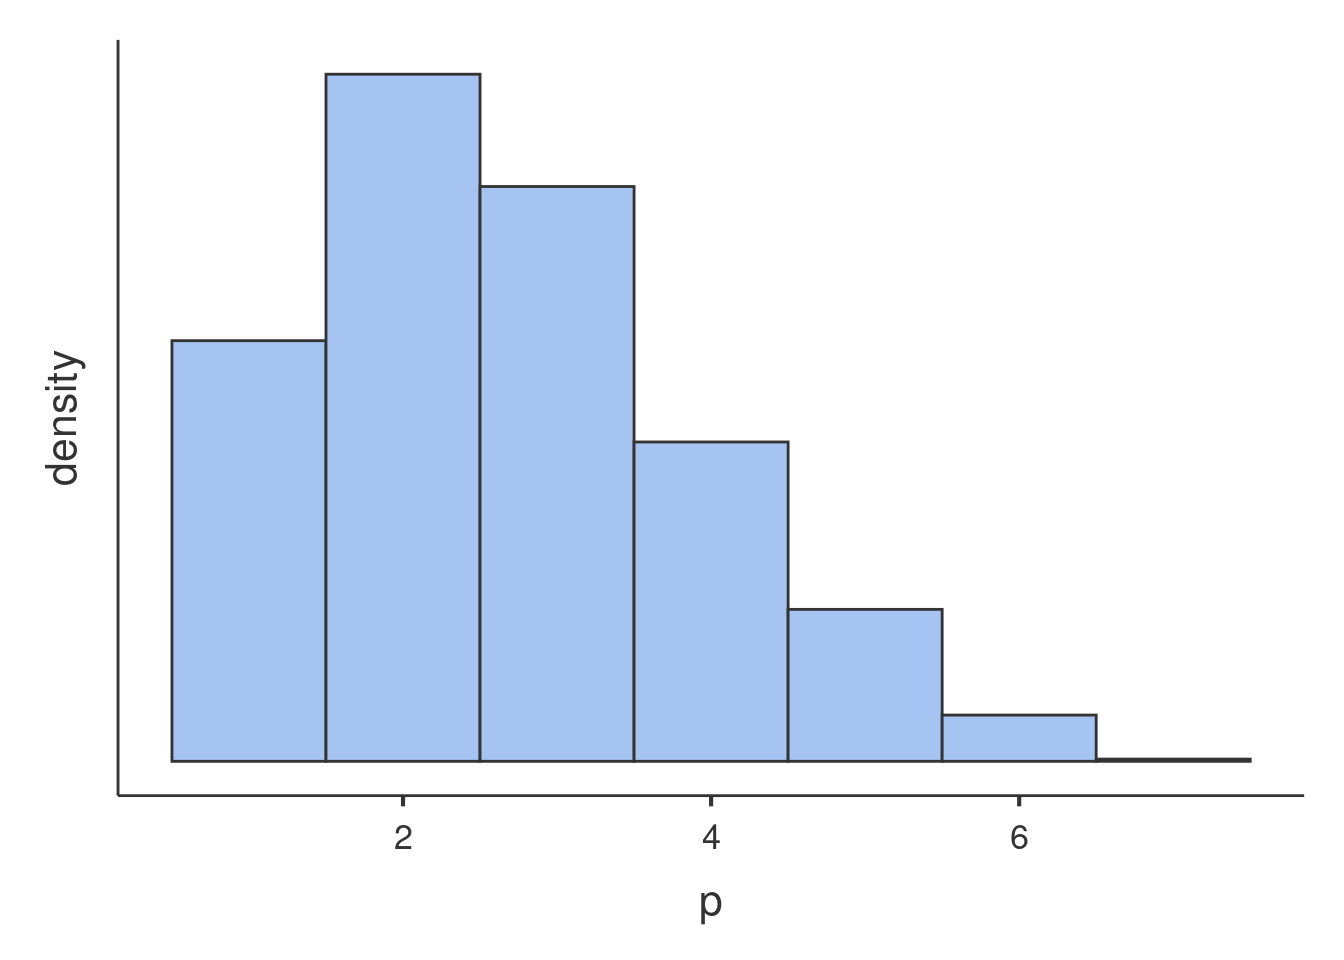
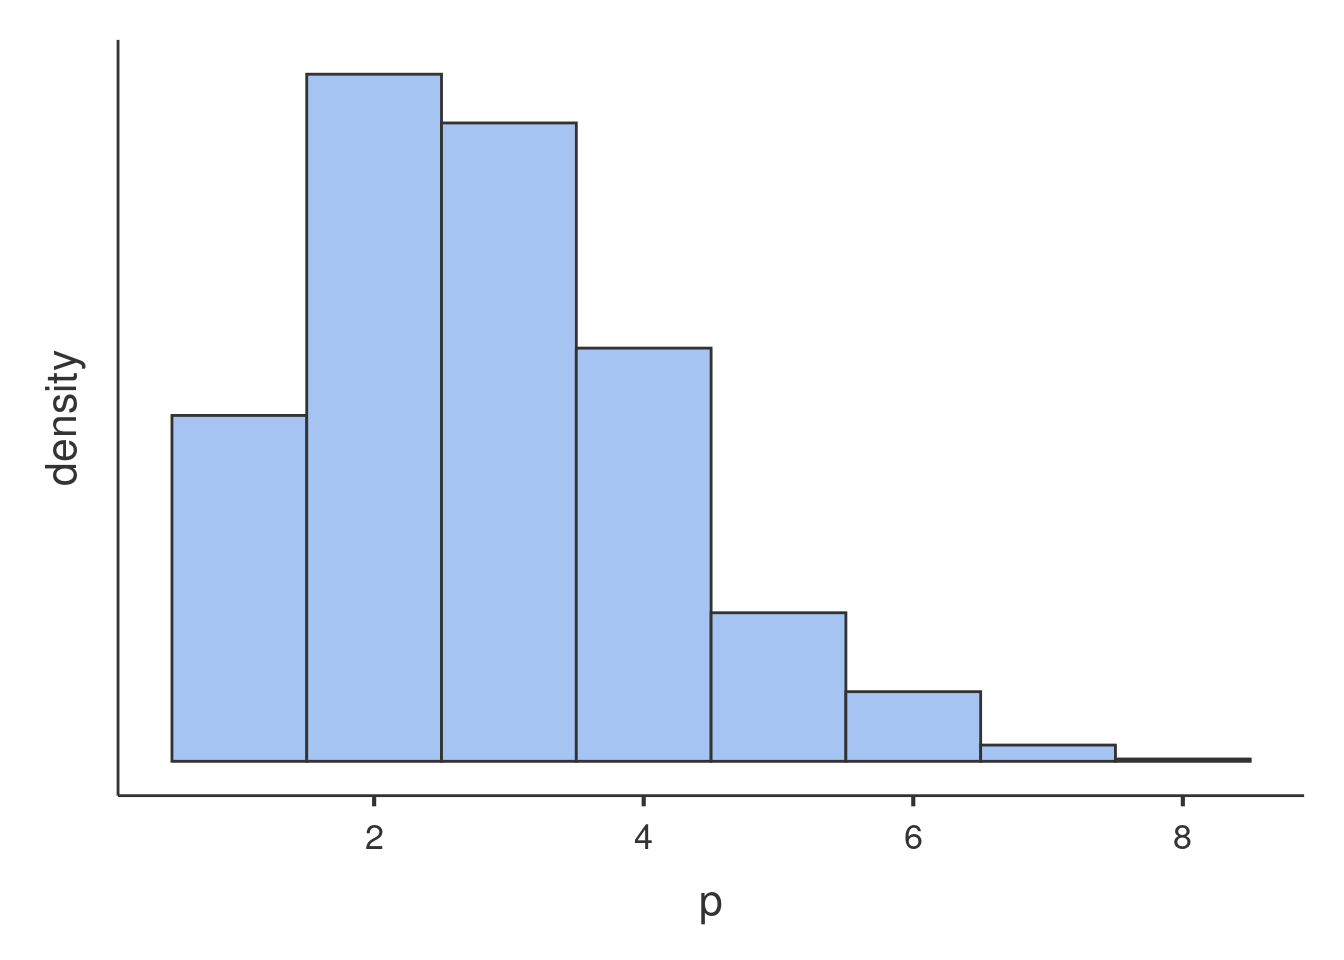
updates

diff --git a/glmmixed_example2.html b/glmmixed_example2.html
@@ -389,7 +389,7 @@ div.tocify {
 <p><img src="glmmixed_example2_files/figure-html/unnamed-chunk-2-1.png" width="672" /></p>
 <p>Glancing at the histogram makes it clear that the distribution is not normal, but it roughly resembles the Poisson distribution. Here is an example of Poisson distribution with equivalent mean.</p>
 <p><img src="glmmixed_example2_files/figure-html/unnamed-chunk-3-1.png" width="672" /></p>
-<p>We can see that the shape of our distribution is not qualitatively very different as compared with a theoretical Poisson distribution, so a Generalized Linear Model with Poisson distribition may work. However, we can check wheather our distribution is in line with the features of the Poisson dist by checking its mean and variance. The Poisson distribution has variance equal to the mean, in fact the simulated distribution in the histogram has <span class="math inline">\(\bar{x}=1.656\)</span> and <span class="math inline">\(s^2=1.585\)</span>. The <code>art</code> variable distribution has <span class="math inline">\(\bar{x}=1.693\)</span> and <span class="math inline">\(s^2=3.71\)</span>, with a ratio variance/mean of 2.191, which does not really qualify for Poisson dist. This looks like a case of <strong>overdispersion</strong>, <a href="http://bbolker.github.io/mixedmodels-misc/glmmFAQ.html#overdispersion">cf. here for details</a>. We will than consider a Negative Binomial model to account for possible overdispersion.</p>
+<p>We can see that the shape of our distribution is not qualitatively very different as compared with a theoretical Poisson distribution, so a Generalized Linear Model with Poisson distribition may work. However, we can check wheather our distribution is in line with the features of the Poisson dist by checking its mean and variance. The Poisson distribution has variance equal to the mean, in fact the simulated distribution in the histogram has <span class="math inline">\(\bar{x}=1.837\)</span> and <span class="math inline">\(s^2=1.732\)</span>. The <code>art</code> variable distribution has <span class="math inline">\(\bar{x}=1.693\)</span> and <span class="math inline">\(s^2=3.71\)</span>, with a ratio variance/mean of 2.191, which does not really qualify for Poisson dist. This looks like a case of <strong>overdispersion</strong>, <a href="http://bbolker.github.io/mixedmodels-misc/glmmFAQ.html#overdispersion">cf. here for details</a>. We will than consider a Negative Binomial model to account for possible overdispersion.</p>
 <p>An example of Negative Binomial distribution with equivalent mean and variance is here.</p>
 <p><img src="glmmixed_example2_files/figure-html/unnamed-chunk-4-1.png" width="672" /></p>
 <p>The second issue one needs to deal with is the structure of the data. We have seen that the students are not a random sample of students drawn independently one each other, but they are grouped by the program they are enrolled in. There are 83 programs, in each program there are on average 11 students. Because students in the same program may be more similar one each other than across programs, <code>programs</code> may cluster the scores of the dependent variable and create dependency in the data. To take dependency into the account, we will use a random intercepts model estimated with a Generalized Mixed Model.</p>

diff --git a/glm.html b/glm.html
@@ -506,23 +506,8 @@ div.tocify {
 </div>
 <div id="details" class="section level1">
 <h1>Details</h1>
-<p>Some more information about the module specs can be found here</p>
-</div>
-<div id="specs" class="section level1">
-<h1>Specs</h1>
+<p>Some more information about the module specs can be found here # Specs</p>
 <ul>
-<li>
-<a href="details_glm_effectsize.html">Details: GLM effect size indices</a>
-</li>
-<li>
-<a href="gmixed_specs.html">Generalized mixed model module technical details</a>
-</li>
-<li>
-<a href="gzlm_specs.html">Generalized linear model module technical details</a>
-</li>
-<li>
-<a href="mixed_specs.html">Mixed Models module technical details</a>
-</li>
 <li>
 <a href="posthoc_specs.html">Post-hocs Details</a>
 </li>
